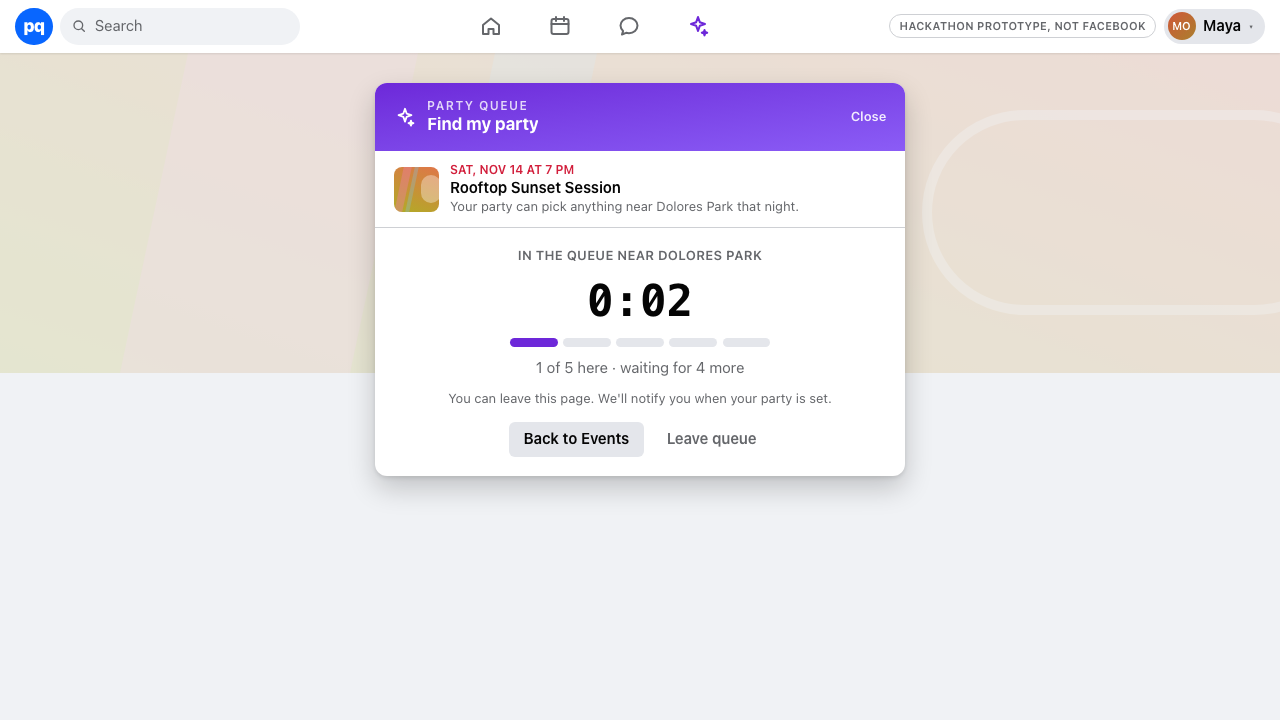
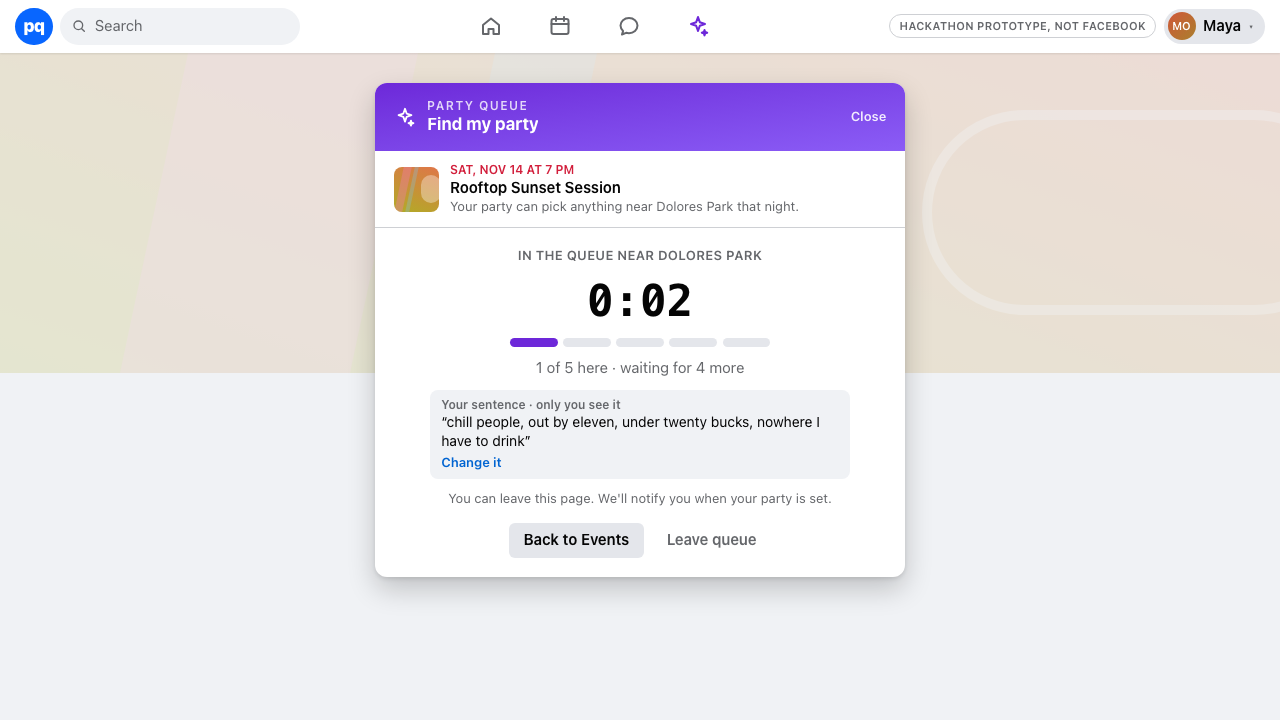
F34: Change your sentence while you wait
While waiting in the queue you can change your sentence, see the new
private preview, and keep your place in line. Refused once the party
forms.

diff --git a/components/queue/QueueSheet.tsx b/components/queue/QueueSheet.tsx
@@ -23,6 +23,8 @@ interface Status {
   duo?: { with: string; confirmed: boolean } | null;
   group?: { of: string; joined: string[]; waitingFor: string[] } | null;
   scope?: "event" | "night";
+  /** F34: your own sentence, so you can change it while you wait. */
+  sentence?: string;
 }
 
 /** F26: queuing with your standing party. */
@@ -76,6 +78,7 @@ export function QueueSheet({
   night = null,
   voice = false,
   standing = null,
+  editable = false,
 }: {
   eventId: string;
   landmark: string;
@@ -91,6 +94,8 @@ export function QueueSheet({
   /** F16: offer "Say it instead" (off by default). */
   voice?: boolean;
   standing?: Standing | null;
+  /** F34: offer "Change it" while waiting. */
+  editable?: boolean;
 }) {
   const [sentence, setSentence] = useState("");
   const [preview, setPreview] = useState<Preview | null>(null);
@@ -103,6 +108,25 @@ export function QueueSheet({
   const [error, setError] = useState<string | null>(null);
   const [joining, setJoining] = useState(false);
   const [forming, setForming] = useState<string | null>(initialStatus?.partyId ?? null);
+  const [editing, setEditing] = useState(false);
+  const [saved, setSaved] = useState(false);
+  const [editError, setEditError] = useState<string | null>(null);
+  const saveSentence = async () => {
+    setEditError(null);
+    const res = await fetch("/api/queue/sentence", {
+      method: "POST",
+      headers: { "content-type": "application/json" },
+      body: JSON.stringify({ sentence, approvedLineIds: Object.keys(approved).filter((k) => approved[k]) }),
+    });
+    const body = (await res.json()) as { error?: string; status?: { sentence: string } };
+    if (!res.ok) {
+      setEditError(body.error ?? "Could not save.");
+      return;
+    }
+    setStatus((st) => (st ? { ...st, sentence: body.status?.sentence ?? sentence } : st));
+    setEditing(false);
+    setSaved(true);
+  };
   const seq = useRef(0);
   const now = useNow(!!status && !forming);
 
@@ -152,7 +176,7 @@ export function QueueSheet({
       return;
     }
     const st = (await (await fetch("/api/queue/status")).json()) as {
-      status: { entry: { joinedAt: string; landmark: string; scope?: "event" | "night" }; inBucket: number; needed: number; partyId: string | null; duo: Status["duo"]; group?: Status["group"] } | null;
+      status: { entry: { joinedAt: string; landmark: string; scope?: "event" | "night" }; inBucket: number; needed: number; partyId: string | null; duo: Status["duo"]; group?: Status["group"]; sentence?: string } | null;
     };
     if (st.status)
       setStatus({
@@ -163,6 +187,7 @@ export function QueueSheet({
         landmark: st.status.entry.landmark,
         duo: st.status.duo,
         group: st.status.group ?? null,
+        sentence: st.status.sentence,
         scope: st.status.entry.scope,
       });
     if (body.partyId) setForming(body.partyId);
@@ -220,6 +245,69 @@ export function QueueSheet({
                   ? `Your standing party is all in: you'll land together, with ${5 - status!.group.joined.length} new ${5 - status!.group.joined.length === 1 ? "person" : "people"}`
                   : `Waiting for ${status!.group.waitingFor.map((id) => standing.others.find((o) => o.id === id)?.firstName ?? "someone").join(" and ")} to join you`}
               </p>
+            )}
+            {editable && (
+              <div className="mx-auto mt-3 max-w-[420px] text-left" data-testid="queue-sentence">
+                {!editing ? (
+                  <div className="rounded-[8px] bg-[var(--color-wash)] px-3 py-2 text-[14px]">
+                    <div className="text-[12px] font-semibold text-[var(--color-ink-2)]">Your sentence · only you see it</div>
+                    <div data-testid="queue-sentence-text">“{status!.sentence}”</div>
+                    <button
+                      onClick={() => {
+                        setSentence(status!.sentence ?? "");
+                        setSaved(false);
+                        setEditing(true);
+                      }}
+                      data-testid="queue-edit"
+                      className="mt-1 text-[13px] font-semibold text-[var(--color-link)] hover:underline"
+                    >
+                      Change it
+                    </button>
+                    {saved && (
+                      <div className="mt-1 text-[13px] font-semibold text-[var(--color-on-ink)]" data-testid="queue-saved" role="status">
+                        Saved. You kept your place in line.
+                      </div>
+                    )}
+                  </div>
+                ) : (
+                  <div>
+                    <label htmlFor="sentence-edit" className="text-[13px] font-semibold">
+                      Change your sentence
+                    </label>
+                    <textarea
+                      id="sentence-edit"
+                      data-testid="sentence-edit"
+                      value={sentence}
+                      maxLength={280}
+                      rows={2}
+                      onChange={(e) => setSentence(e.target.value)}
+                      className="mt-1 block w-full resize-none rounded-[8px] border border-[var(--color-divider)] p-2.5 text-[15px]"
+                    />
+                    {preview && (
+                      <ul className="mt-1.5 flex flex-wrap gap-1.5" data-testid="sentence-edit-rules" aria-label="Private rules your agent will hold to">
+                        {preview.hardRules.length === 0 ? (
+                          <li className="text-[13px] text-[var(--color-ink-2)]">No rules found.</li>
+                        ) : (
+                          preview.hardRules.map((r) => (
+                            <li key={r.id} className="rounded-full bg-[var(--color-ink)] px-2.5 py-1 text-[13px] font-semibold text-white">
+                              {ruleLabel(r)}
+                            </li>
+                          ))
+                        )}
+                      </ul>
+                    )}
+                    <div className="mt-2 flex gap-2">
+                      <button onClick={saveSentence} disabled={sentence.trim().length < 3} data-testid="queue-save-sentence" className="press rounded-[6px] bg-[var(--color-pq)] px-3 py-1.5 text-[14px] font-semibold text-white disabled:opacity-50">
+                        Save, keep my place
+                      </button>
+                      <button onClick={() => setEditing(false)} className="press rounded-[6px] bg-[var(--color-btn-2)] px-3 py-1.5 text-[14px] font-semibold">
+                        Cancel
+                      </button>
+                    </div>
+                    {editError && <p className="mt-1 text-[13px] text-[#a8132d]">{editError}</p>}
+                  </div>
+                )}
+              </div>
             )}
             <p className="mt-3 text-[13px] text-[var(--color-ink-2)]">You can leave this page. We'll notify you when your party is set.</p>
             <div className="mt-4 flex justify-center gap-2">

diff --git a/tests/editsentence.spec.ts b/tests/editsentence.spec.ts
@@ -1,0 +1,36 @@
+import AxeBuilder from "@axe-core/playwright";
+import { expect, test } from "@playwright/test";
+
+/* F34: Maya changes her sentence while waiting; her rules update and the timer keeps running from when she joined. */
+
+test("change your sentence while you wait: new rules, same place in line", async ({ browser, baseURL, request }) => {
+  test.setTimeout(120_000);
+  await request.post("/api/demo/reset");
+  const ctx = await browser.newContext({ viewport: { width: 390, height: 844 } });
+  await ctx.addCookies([{ name: "pq_viewer", value: "maya", url: baseURL! }]);
+  const page = await ctx.newPage();
+  await page.goto("/queue?event=evt-rooftop");
+  await page.getByTestId("sentence").fill("chill people, out by eleven, under twenty bucks, nowhere I have to drink");
+  await expect(page.getByTestId("brief-preview")).toBeVisible();
+  await page.getByTestId("join-queue").click();
+  await expect(page.getByTestId("queue-sentence-text")).toHaveText("“chill people, out by eleven, under twenty bucks, nowhere I have to drink”");
+  const before = (await (await request.get("/api/queue/status", { headers: { cookie: "pq_viewer=maya" } })).json()) as { status: { entry: { id: string; joinedAt: string } } };
+
+  await page.getByTestId("queue-edit").click();
+  await page.getByTestId("sentence-edit").fill("chill people, home by midnight, under twenty bucks");
+  await expect(page.getByTestId("sentence-edit-rules")).toContainText("Done by 12 AM");
+  await expect(page.getByTestId("sentence-edit-rules")).not.toContainText("No drink minimum");
+  const axe = await new AxeBuilder({ page }).include("[data-testid=queue-sentence]").withTags(["wcag2a", "wcag2aa", "wcag21a", "wcag21aa"]).analyze();
+  expect(axe.violations.filter((v) => v.impact === "serious" || v.impact === "critical").map((v) => v.id)).toEqual([]);
+  await page.getByTestId("queue-sentence").screenshot({ path: "shots/f34-edit.png" });
+  await page.getByTestId("queue-save-sentence").click();
+  await expect(page.getByTestId("queue-saved")).toHaveText("Saved. You kept your place in line.");
+  await expect(page.getByTestId("queue-sentence-text")).toHaveText("“chill people, home by midnight, under twenty bucks”");
+  await page.screenshot({ path: "shots/f34-saved.png" });
+
+  // Same entry, same join time.
+  const after = (await (await request.get("/api/queue/status", { headers: { cookie: "pq_viewer=maya" } })).json()) as { status: { entry: { id: string; joinedAt: string }; sentence: string } };
+  expect(after.status.entry).toMatchObject(before.status.entry);
+  expect(after.status.sentence).toBe("chill people, home by midnight, under twenty bucks");
+  await ctx.close();
+});

diff --git a/tests/unit/editsentence.test.ts b/tests/unit/editsentence.test.ts
@@ -1,0 +1,47 @@
+import { beforeEach, describe, expect, it } from "vitest";
+import { DEMO_PARTY as D } from "@/fixtures";
+import { runParty } from "@/lib/agents/orchestrator";
+import { flag } from "@/lib/flags";
+import { joinQueue, queueStatus, updateSentence } from "@/lib/server/queue";
+import { resetStore, store } from "@/lib/server/store";
+
+const join = (id: string, sentence = D.sentences[id]!) => joinQueue({ userId: id, eventId: D.entryEventId, sentence, consentBridges: true, startTalk: false });
+
+describe("change your sentence while you wait (F34)", () => {
+  beforeEach(() => {
+    process.env.PQ_PACE_MS = "0";
+    resetStore();
+  });
+
+  it("is on by default", () => expect(flag("EDIT_SENTENCE")).toBe(true));
+
+  it("rebuilds the brief from the new words and keeps the same entry, so the same place in line", async () => {
+    await join("maya");
+    await join("dev");
+    const before = queueStatus("maya")!.entry;
+    expect(store().briefs.get("brief-maya")!.hardRules.map((r) => r.kind).sort()).toEqual(["end_by", "max_price", "no_drink_minimum"]);
+    await updateSentence("maya", "chill people, out by eleven, under twenty bucks");
+    const after = queueStatus("maya")!;
+    expect(after.entry.id).toBe(before.id);
+    expect(after.entry.joinedAt).toBe(before.joinedAt); // ahead of Dev still
+    expect(after.sentence).toBe("chill people, out by eleven, under twenty bucks");
+    expect(store().briefs.get("brief-maya")!.hardRules.map((r) => r.kind).sort()).toEqual(["end_by", "max_price"]);
+    expect(store().queue.filter((e) => e.userId === "maya")).toHaveLength(1);
+  });
+
+  it("the agents use the new brief: without the drink rule, Maya's agent no longer turns the rooftop down", async () => {
+    await join("maya");
+    await updateSentence("maya", "chill people, out by eleven, under twenty bucks");
+    for (const id of ["dev", "ana", "kai", "zoe"]) await join(id);
+    const pid = [...store().parties.keys()][0]!;
+    await runParty(pid, { paceMs: 0 });
+    const rooftop = store().verdicts.find((v) => v.ownerId === "maya" && v.round === 1 && v.planId === "plan-evt-rooftop")!;
+    expect(rooftop.decision).not.toBe("reject");
+  });
+
+  it("only while waiting: once the party forms, the agents already have the brief", async () => {
+    for (const id of ["dev", "ana", "kai", "zoe", "maya"]) await join(id);
+    await expect(updateSentence("maya", "anything goes")).rejects.toThrow("You can change your sentence while you're waiting.");
+    await expect(updateSentence("priya", "anything goes")).rejects.toThrow("while you're waiting");
+  });
+});

diff --git a/lib/server/queue.ts b/lib/server/queue.ts
@@ -109,6 +109,25 @@ export async function joinQueue(input: JoinInput): Promise<JoinResult> {
   return { entry, partyId };
 }
 
+/**
+ * F34: change your sentence while you're still waiting. Your brief is rebuilt
+ * from the new words; your queue entry, and so your place in line, stays.
+ * Once a party forms, the agents are already working from the old brief.
+ */
+export async function updateSentence(userId: string, sentence: string, approvedLineIds?: string[]) {
+  if (!flag("EDIT_SENTENCE")) throw new Error("Changing your sentence is turned off.");
+  const s = store();
+  const entry = [...s.queue].reverse().find((e) => e.userId === userId && e.status === "waiting");
+  if (!entry) throw new Error("You can change your sentence while you're waiting. Once your party forms, the agents are already working from it.");
+  const text = sentence.trim();
+  if (text.length < 3) throw new Error("Type one sentence about your night.");
+  const built = await buildBrief(userId, text, profile(userId).facts, approvedLineIds);
+  for (const [id, f] of s.briefFacts) if (f.ownerId === userId && f.source === "brief") s.briefFacts.delete(id);
+  s.briefs.set(built.brief.id, built.brief);
+  for (const f of built.facts) s.briefFacts.set(f.id, f);
+  return { entry, brief: built.brief };
+}
+
 export function leaveQueue(userId: string) {
   for (const e of store().queue) if (e.userId === userId && e.status === "waiting") e.status = "left";
 }
@@ -133,6 +152,8 @@ export function queueStatus(userId: string) {
     inBucket,
     needed: Math.max(0, PARTY_SIZE - inBucket),
     waitingSeconds: Math.round((Date.now() - Date.parse(entry.joinedAt)) / 1000),
+    /** Your own sentence, for your own sheet (F34). */
+    sentence: s.briefs.get(entry.briefId)?.sentence ?? "",
     partyId: entry.status === "waiting" ? null : (party?.id ?? null),
   };
 }

diff --git a/app/queue/page.tsx b/app/queue/page.tsx
@@ -78,11 +78,12 @@ export default async function QueuePage({ searchParams }: { searchParams: Promis
             invitedBy={inviter}
             duoEnabled={duoOn}
             voice={flag("VOICE_SENTENCE")}
+            editable={flag("EDIT_SENTENCE")}
             standing={standing ?? (active?.group ? { partyId: active.group.of, others: (s.standing.get(active.group.of)?.memberIds ?? []).filter((id) => id !== viewer).map((id) => ({ id, firstName: s.profiles.get(id)!.firstName })) } : null)}
             night={flag("NIGHT_QUEUE") ? { nearCount: candidatePlans(e.landmark, e.date).length, tonightCount: nightPlans(e.date).length } : null}
             initialStatus={
               active
-                ? { joinedAt: active.entry.joinedAt, inBucket: active.inBucket, needed: active.needed, partyId: active.partyId, landmark: active.entry.landmark, duo: active.duo, group: active.group, scope: active.entry.scope }
+                ? { joinedAt: active.entry.joinedAt, inBucket: active.inBucket, needed: active.needed, partyId: active.partyId, landmark: active.entry.landmark, duo: active.duo, group: active.group, scope: active.entry.scope, sentence: active.sentence }
                 : null
             }
           />

diff --git a/app/api/queue/sentence/route.ts b/app/api/queue/sentence/route.ts
@@ -1,0 +1,19 @@
+import { NextResponse } from "next/server";
+import { z } from "zod";
+import { queueStatus, updateSentence } from "@/lib/server/queue";
+import { currentViewerId } from "@/lib/server/viewer";
+
+const Body = z.object({ sentence: z.string().trim().min(3).max(280), approvedLineIds: z.array(z.string()).optional() });
+
+/** Change your own sentence while you wait; your place in line stays. */
+export async function POST(req: Request) {
+  const body = Body.safeParse(await req.json().catch(() => null));
+  if (!body.success) return NextResponse.json({ error: "Type one sentence about your night." }, { status: 400 });
+  const viewer = await currentViewerId();
+  try {
+    await updateSentence(viewer, body.data.sentence, body.data.approvedLineIds);
+    return NextResponse.json({ ok: true, status: queueStatus(viewer) });
+  } catch (e) {
+    return NextResponse.json({ error: (e as Error).message }, { status: 400 });
+  }
+}

diff --git a/lib/flags.ts b/lib/flags.ts
@@ -72,6 +72,8 @@ const DEFAULTS = {
   CHAT_WHY: true,
   /** F33: a big caption on /stage saying what just happened, in plain words, for the back of the room. */
   STAGE_CAPTIONS: true,
+  /** F34: change your sentence while you wait in the queue, and keep your place in line. */
+  EDIT_SENTENCE: true,
 } as const satisfies Record<string, boolean>;
 
 export type FlagName = keyof typeof DEFAULTS;

diff --git a/FEATURES.md b/FEATURES.md
@@ -62,6 +62,7 @@ hues (spread across the wheel, layout picked from a title hash).
 | 31 | How your agent did it | The question people ask about any agent acting for them is "what did it actually do?" The receipt showed what it considered; now it tells the negotiation on your phone, round by round, including where code stepped in, and nothing about anyone else. | `AGENT_STORY` | done (F31) |
 | 32 | Why this, in the chat | The chat is where the suggested openers get used. A grounding guarantee that shows on the card but not in the chat looks partial; now every machine-written line in the app can say where it came from. | `CHAT_WHY` | done (F32) |
 | 33 | Stage captions | The projector is dense and judges sit at the back. One big sentence saying what just happened ("Rooftop Sunset Session is unavailable. The other members see no reason and no name.") lets anyone follow the negotiation without reading the lanes, and lets the presenter talk less. | `STAGE_CAPTIONS` | done (F33) |
+| 34 | Change your sentence while you wait | A matchmaking queue that punishes you for fixing a typo, or for remembering you have to be home by midnight, by sending you to the back of the line feels hostile. Now you can change it in place and keep your spot, with the same private preview. | `EDIT_SENTENCE` | done (F34) |
 
 ## Done
 
@@ -100,3 +101,4 @@ hues (spread across the wheel, layout picked from a title hash).
 | F31 | **How your agent did it**, at the top of your receipt on `/party` (only you see it). Built only from your own verdicts and the public lock: "R1 Read 5 plans. Turned down 3 that break your rules. Liked Dolores Night Market most (5/5)." · "R2 Signed Dolores Night Market." · "R3 Kept its signature on Dolores Night Market while the others caught up." · "Lock Code locked Dolores Night Market with all five signatures." Kai's tells the negotiation: "Held out for Open Studio: Clay and Tea (your 5/5)", then "Agreed to Dolores Night Market: not your first pick, but it fits your rules." Code's steps are marked: overrides ("Code overrode your agent 3 times: it said yes to plans that break your rules" under the rogue model), the lock, or "No plan fit all five. Nobody was told why." | `AGENT_STORY` | `npm test -- story`: `Tests 5 passed` (Maya's story exactly; Kai holds, then agrees; every member's story holds no one else's private words and no names, and a non-member gets none; the rogue model's overrides and a no-match are told). `npx playwright test tests/story.spec.ts` at 390 px: Maya's four steps exactly, axe clean; Kai's held out and agreed, no other names: `✓ how your agent did it: … (6.3s)`; `secret`, `forget` and `mobile` still pass. Gate: typecheck exit 0, `Tests 195 passed (195)`, demo path passed. `shots/f31-story-maya.png`, `shots/f31-story-kai.png` |
 | F32 | **Why this? in the group chat.** Under the pinned plan ("Your party's plan: Dolores Night Market.") and under each of the five suggested openers ("Dev listed “farmers market” on their profile and approved sharing it."), the same `explainSources` as the cards, computed on the server for the viewer and passed into the thread. It sits below the bubble's row, so the avatar stays beside the bubble, and aligns right under your own messages. | `CHAT_WHY` | `npm test -- provenance`: `Tests 6 passed` (adds: the party chat's pinned plan and all five openers explain fully from Maya's view). `npx playwright test tests/chatwhy.spec.ts` at 390 px: the pinned plan's sources; Maya's opener to Dev shows Dev's approved fact and "The model only chose which facts.": `✓ why this, in the chat: … (6.2s)`; `states`, `chatlife`, `a11y` (both viewports) and `mobile` pass. Gate: typecheck exit 0, `Tests 196 passed (196)`, demo path passed. `shots/f32-chat-why.png` |
 | F33 | **Stage captions**: a large caption under the `/stage` header (`aria-live="polite"`) with the latest moment in one plain sentence, coloured by who acted (an agent, code, or something stopped). Derived from the traces up to the scrubber, so replays caption themselves: "A party of five formed. Code checked ages, blocks and settings…", "Maya's agent turned down 3 plans that break Maya's rules. Only Maya's phone and this screen see why.", "Rooftop Sunset Session is unavailable. The other members see no reason and no name.", "Code totals everyone's preferences: Dolores Night Market leads.", "Kai's agent is holding out for Open Studio: Clay and Tea.", "5 of 5 signed Dolores Night Market.", "Code locked Dolores Night Market. MATCH FOUND on all five phones." Also the rogue model, overrides, verifier blocks, leak tests, What if and no-match. Captions never quote anyone's private words, and pair talk isn't captioned so it can't drown out the table. Caught in the screenshot: the first version read plan titles out of the trace text and cut "Open Studio: Clay and Tea" at its colon; titles now come from the plan id, and the tests check the full title. | `STAGE_CAPTIONS` | `npm test -- captions`: `Tests 4 passed` (nothing before the first move; the demo party's captions from formation to the lock, including Kai's hold with the full title; no caption holds any member's private phrases; the rogue model, an override and a verifier block). `npx playwright test tests/captions.spec.ts`: "Waiting for the first move.", then live to "Code locked Dolores Night Market. MATCH FOUND on all five phones."; scrubbed to Kai's round-2 move: "Kai's agent is holding out for Open Studio: Clay and Tea."; back to 0: waiting: `✓ stage captions: … (6.3s)`; `stage`, `stageparties`, `rogue`, `mobile`, `a11y` pass. Gate: typecheck exit 0, `Tests 200 passed (200)`, demo path passed. `shots/f33-captions.png` |
+| F34 | **Change your sentence while you wait.** The queue sheet's waiting view shows your own sentence ("only you see it") with **Change it**: a text box with the same live private preview of the rules your agent will hold to, then **Save, keep my place**. Code rebuilds your brief from the new words (old brief lines dropped, new ones added) but keeps your queue entry and its join time, so you stay ahead of anyone who joined after you, and the timer keeps counting from when you joined. Once your party forms it's refused: the agents are already working from your brief. | `EDIT_SENTENCE` | `npm test -- editsentence`: `Tests 4 passed` (same entry and join time, the new sentence and rules, still one entry; the agents then use it: without the drink rule Maya's agent no longer turns the rooftop down; refused once the party forms, and for someone not waiting). `npx playwright test tests/editsentence.spec.ts` at 390 px: join, change to "home by midnight": the preview shows "Done by 12 AM" and no drink rule, axe clean, "Saved. You kept your place in line.", and the queue status has the same entry id and join time: `✓ change your sentence while you wait: … (1.4s)`; `queue`, `duo`, `night`, `standing` and `mobile` pass. Gate: typecheck exit 0, `Tests 204 passed (204)`, demo path passed. `shots/f34-edit.png`, `shots/f34-saved.png` |

diff --git a/README.md b/README.md
@@ -123,6 +123,7 @@ live from `/demo` → Layers, or with `PQ_FLAG_<NAME>=0|1`.
 | `AGENT_STORY` | "How your agent did it" in your receipt: your own agent's moves round by round (turned down, held out, agreed, signed) and where code stepped in |
 | `CHAT_WHY` | **Why this?** in the group chat too: under the pinned plan and each suggested opener |
 | `STAGE_CAPTIONS` | a big caption on `/stage` saying what just happened in plain words ("Kai's agent is holding out for Open Studio: Clay and Tea."); follows the scrubber; never quotes anyone's private words |
+| `EDIT_SENTENCE` | change your sentence while you wait in the queue: a new private preview, the brief rebuilt, and you keep your place in line |
 | `NO_MATCH` | when no plan fits all five: everyone back at the front of the queue, nobody blamed, the same five never re-form; anyone whose own rules close every plan is told privately |
 
 ## Routes
@@ -168,7 +169,7 @@ inferred from a face; no score or label about a person or a pair.
 
 ```bash
 npm run typecheck
-npm test                       # 200 unit tests (vitest)
+npm test                       # 204 unit tests (vitest)
 npm run contract:check         # fixtures and events against the Zod contracts
 npm run eval -- --mock         # 7 eval suites
 npx playwright install chromium  # once, for the browser tests

diff --git a/docs/DEVPOST.md b/docs/DEVPOST.md
@@ -56,7 +56,7 @@ column is computed by scanning everything the other four can load, and it stays 
 - A code judge, a verifier for public lines, and pair talk where the model only picks fact ids.
 - A projector view with a scrubber that rebuilds the board (plans, signatures, the lock) at
   any moment of the replay.
-- Vitest (200 unit tests), Playwright (35+ end-to-end specs on a production build, including
+- Vitest (204 unit tests), Playwright (35+ end-to-end specs on a production build, including
   five phones at once, 390-pixel layouts and axe accessibility checks), and an eval harness.
 
 ## The leak test
